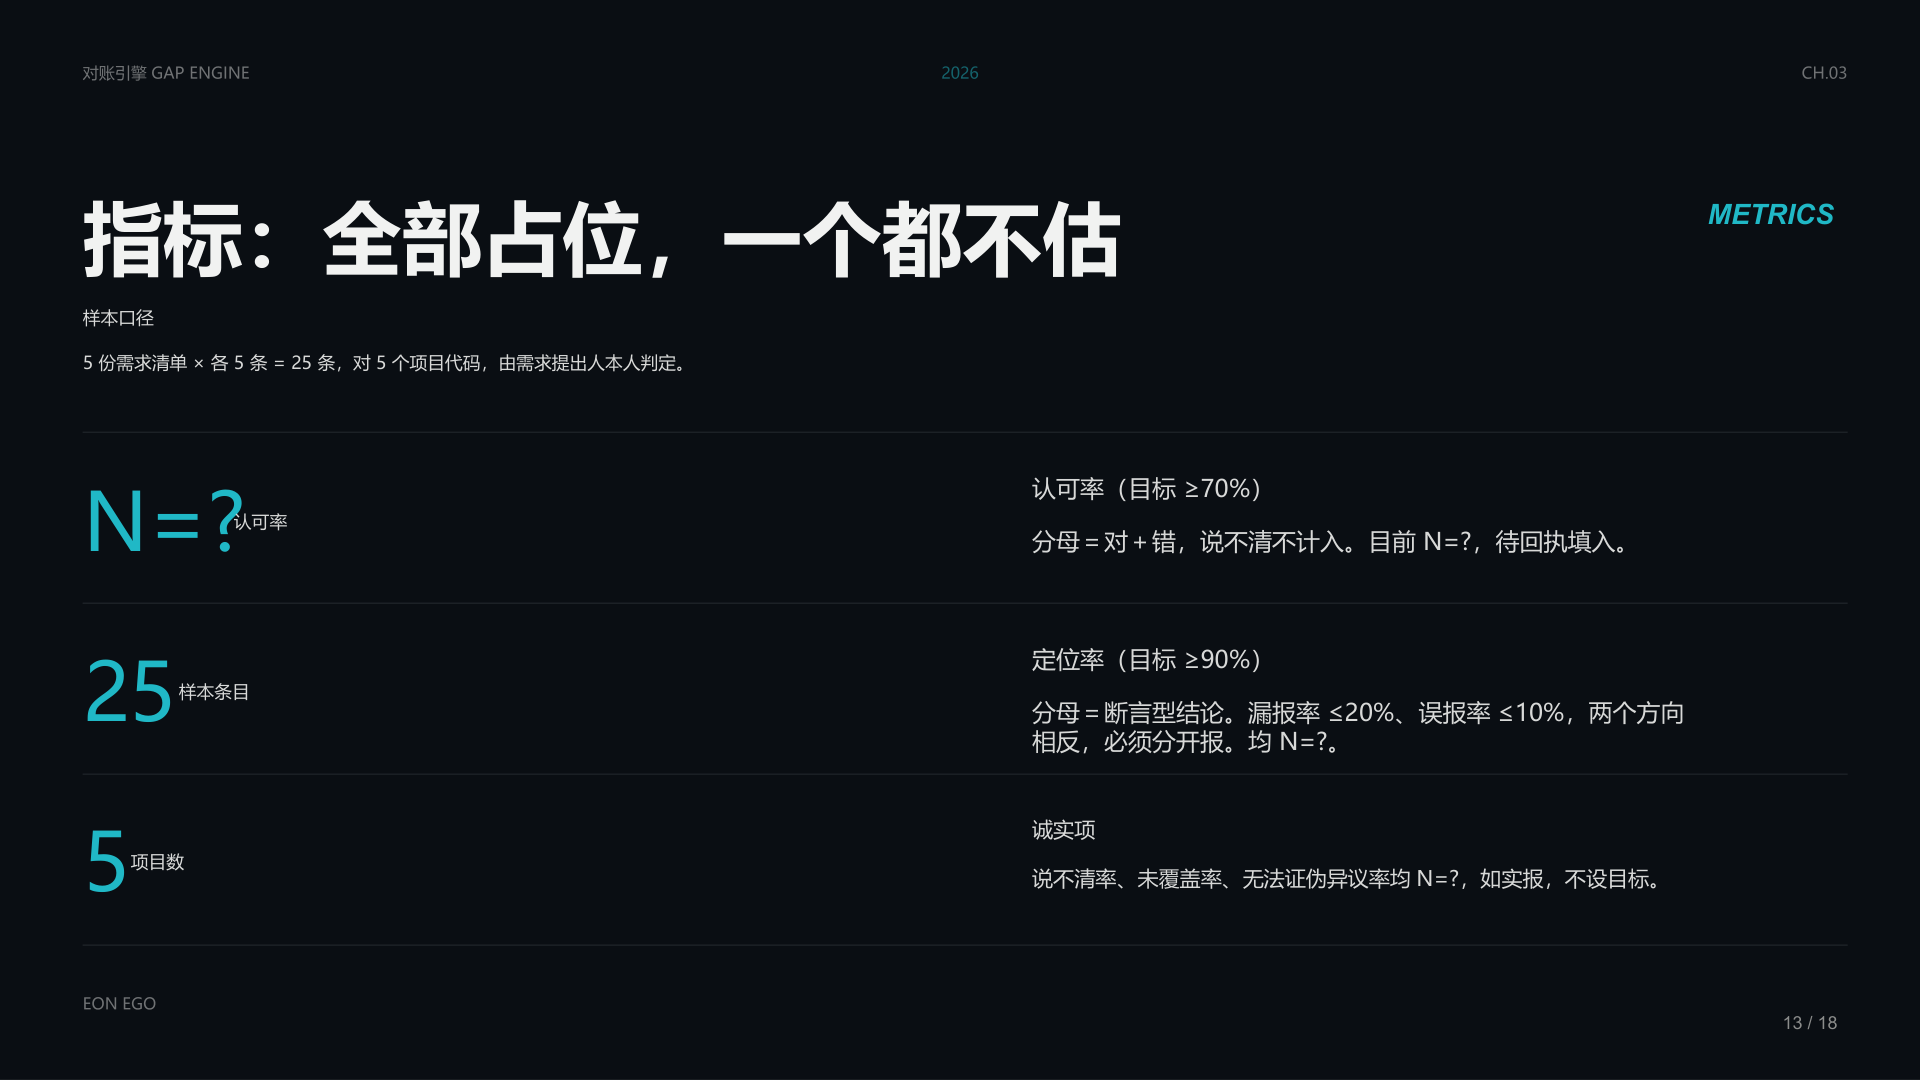
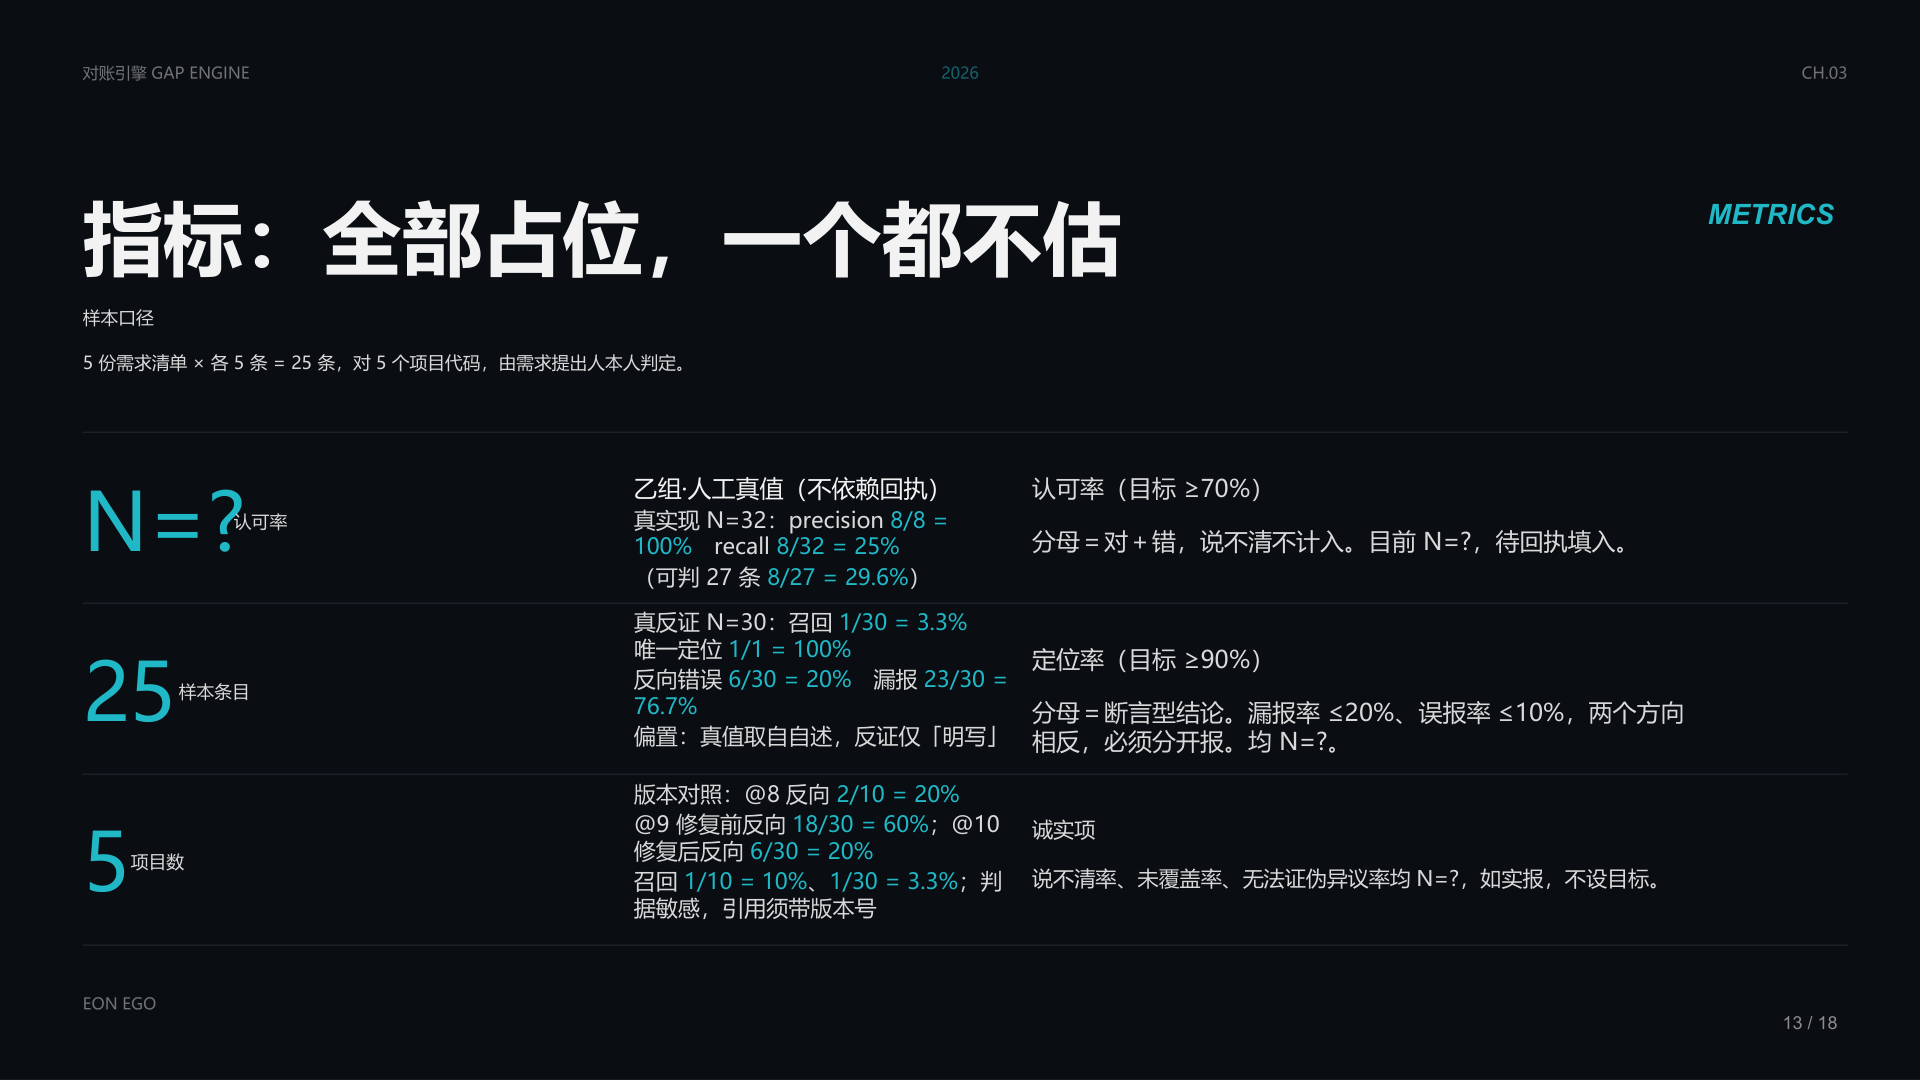
chore(video): 第 13 页按 @10 实测数字重导并重渲染成片
P13 由新放映版 PDF 重导（sha256 45a8cbd0->54e505d5，1920x1080），
pages.json 同步该 sha256，P15 未动；S6Metrics 仅更新两行过期注释，
动效与布局常量零变化。render.py --skip-package 重出 2880x1620/30fps/
168.000s/5040 帧，封装参数与旧片一致，音轨未动。

Changed region(s): [[0.3125, 0.4278, 0.5312, 0.8556]]

diff --git a/video/remotion/src/scenes/S6Metrics.tsx b/video/remotion/src/scenes/S6Metrics.tsx
@@ -12,7 +12,7 @@ const FRAME_HEIGHT = 900;
 // 两页并排成一个 200% 宽的 track，翻页靠整体横移 50%，中途两页各自只在半幅内可见，
 // 彻底避免「交叉淡化时整页文字重叠成重影」。
 const SLIDE_FRAMES = 16;
-// P13 整页数字均为 N=? 占位，故以「画框内缘青色微光」呼吸承载待填语义；
+// P13 为实测数字页，画框内缘以「青色微光」呼吸缓和白底页接进深色框的硬切；
 // 不做整页 opacity 呼吸，避免白底页在深色框里肉眼可见地闪。
 const BREATH_PERIOD = 40;
 const BREATH_MIN = 0.72;
@@ -85,7 +85,7 @@ export const S6Metrics: React.FC<SceneProps> = ({ range }) => {
               <Img src={staticFile('ppt/P15.png')} style={PAGE} />
             </div>
           </div>
-          {/* 待填语义：呼吸落在画框内缘的青色微光上（inset 不会被 overflow 裁掉） */}
+          {/* 翻页缓和：呼吸落在画框内缘的青色微光上（inset 不会被 overflow 裁掉） */}
           <div
             style={{
               position: 'absolute',
